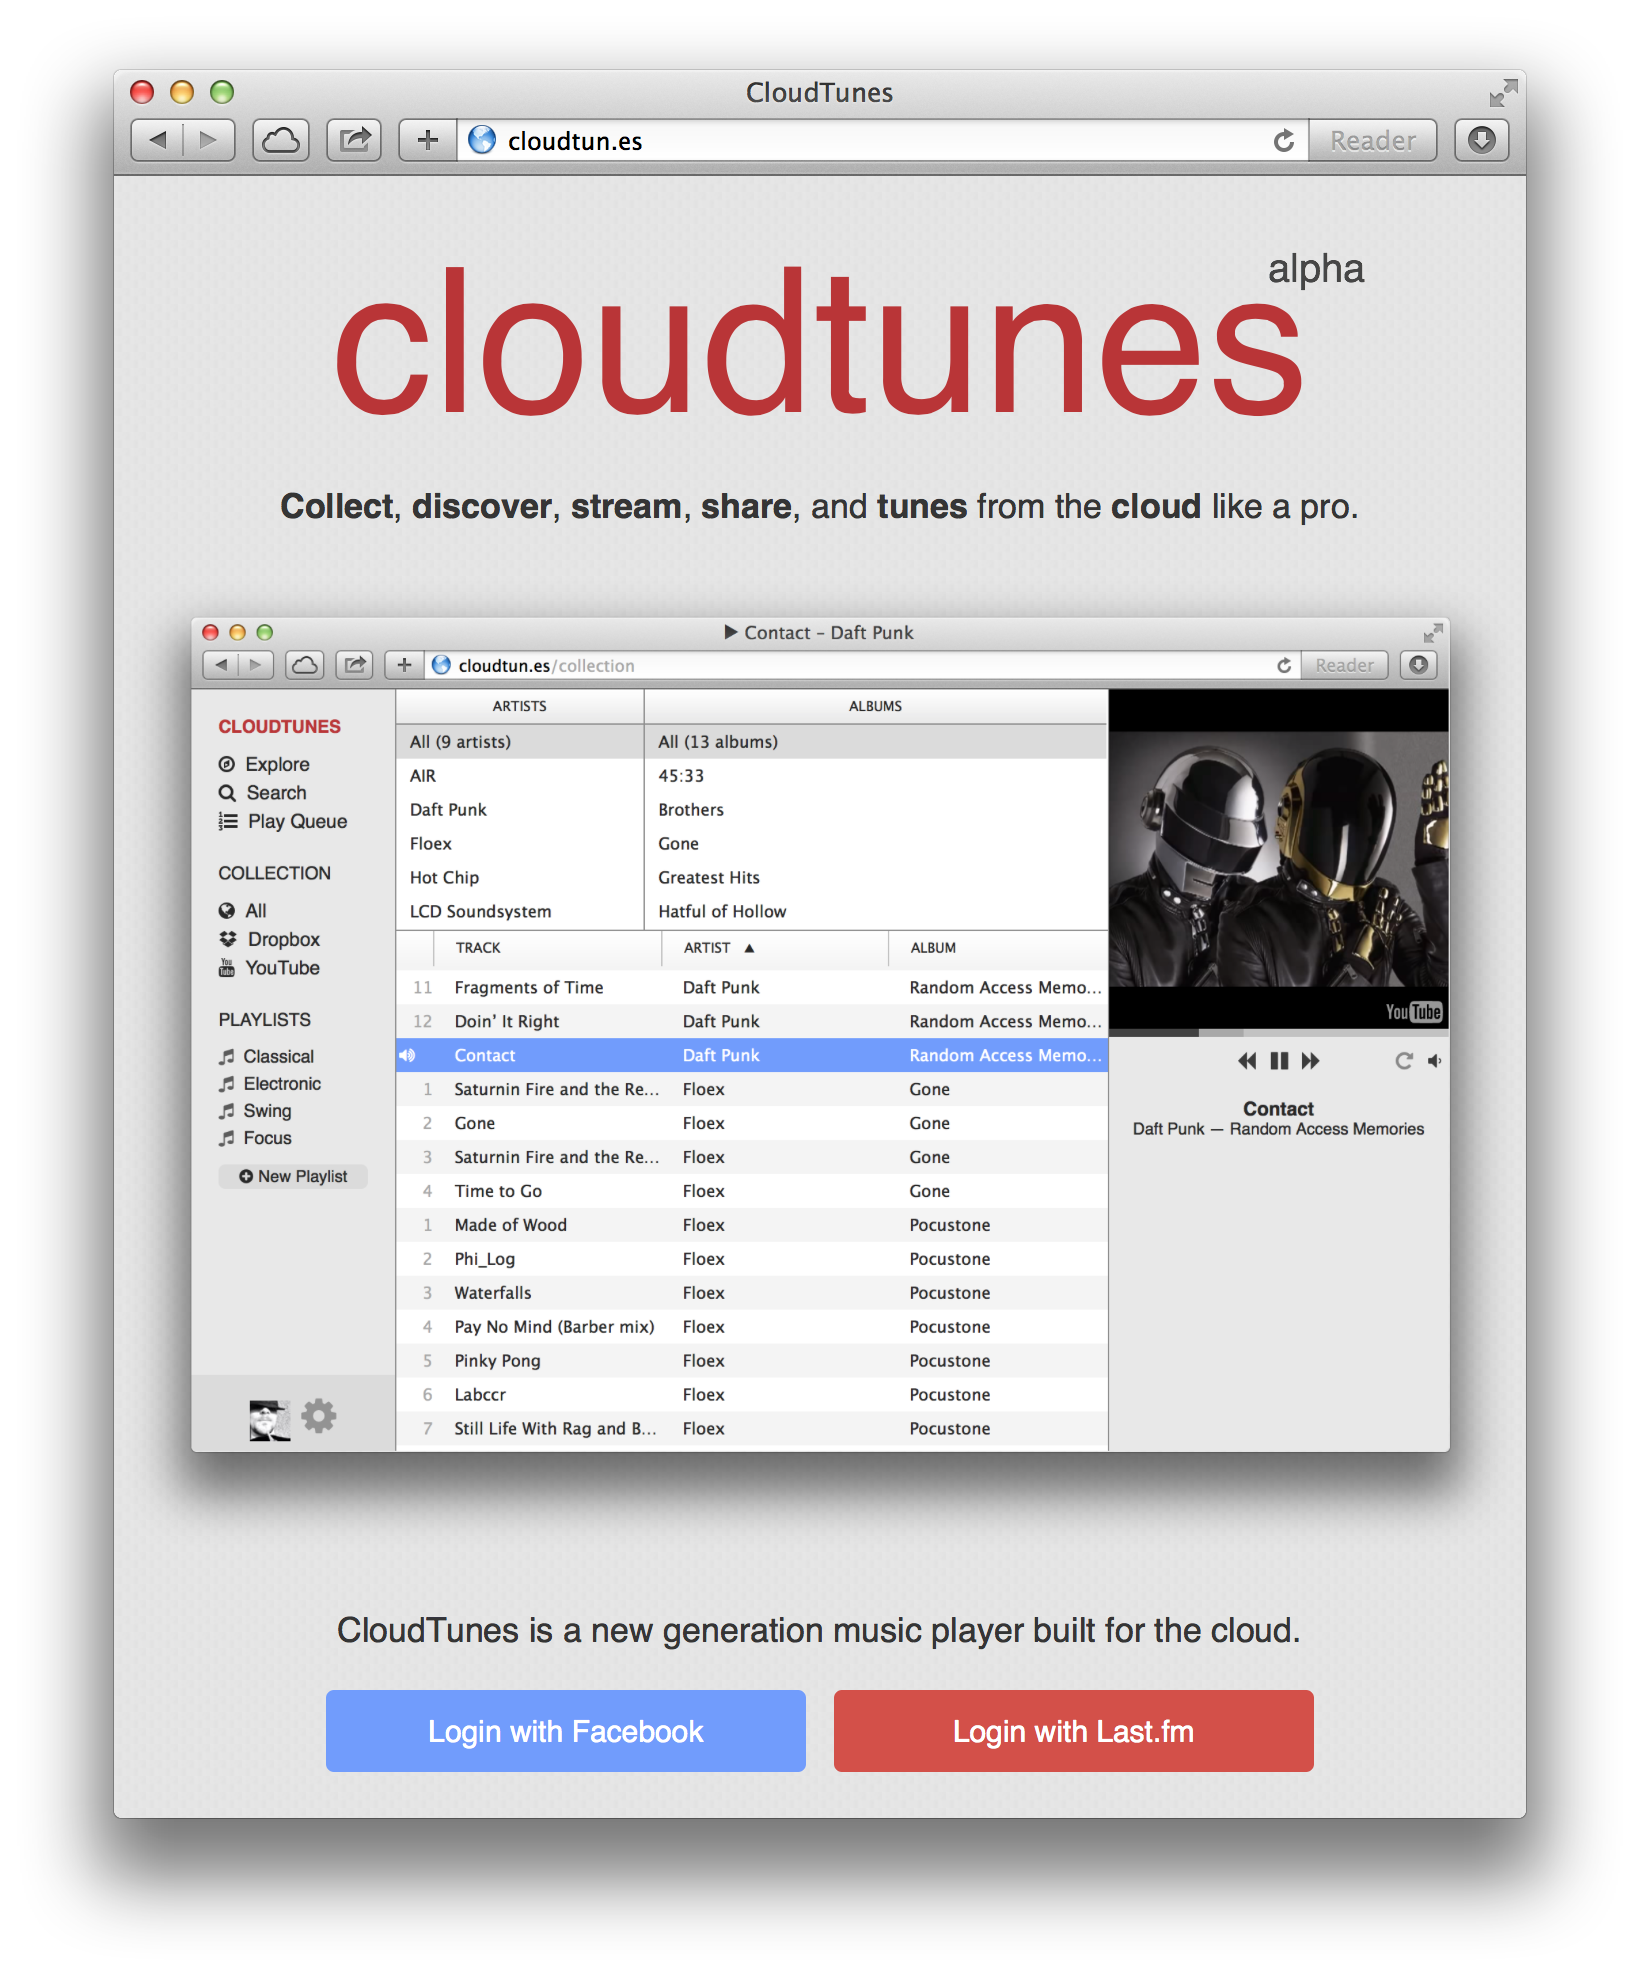
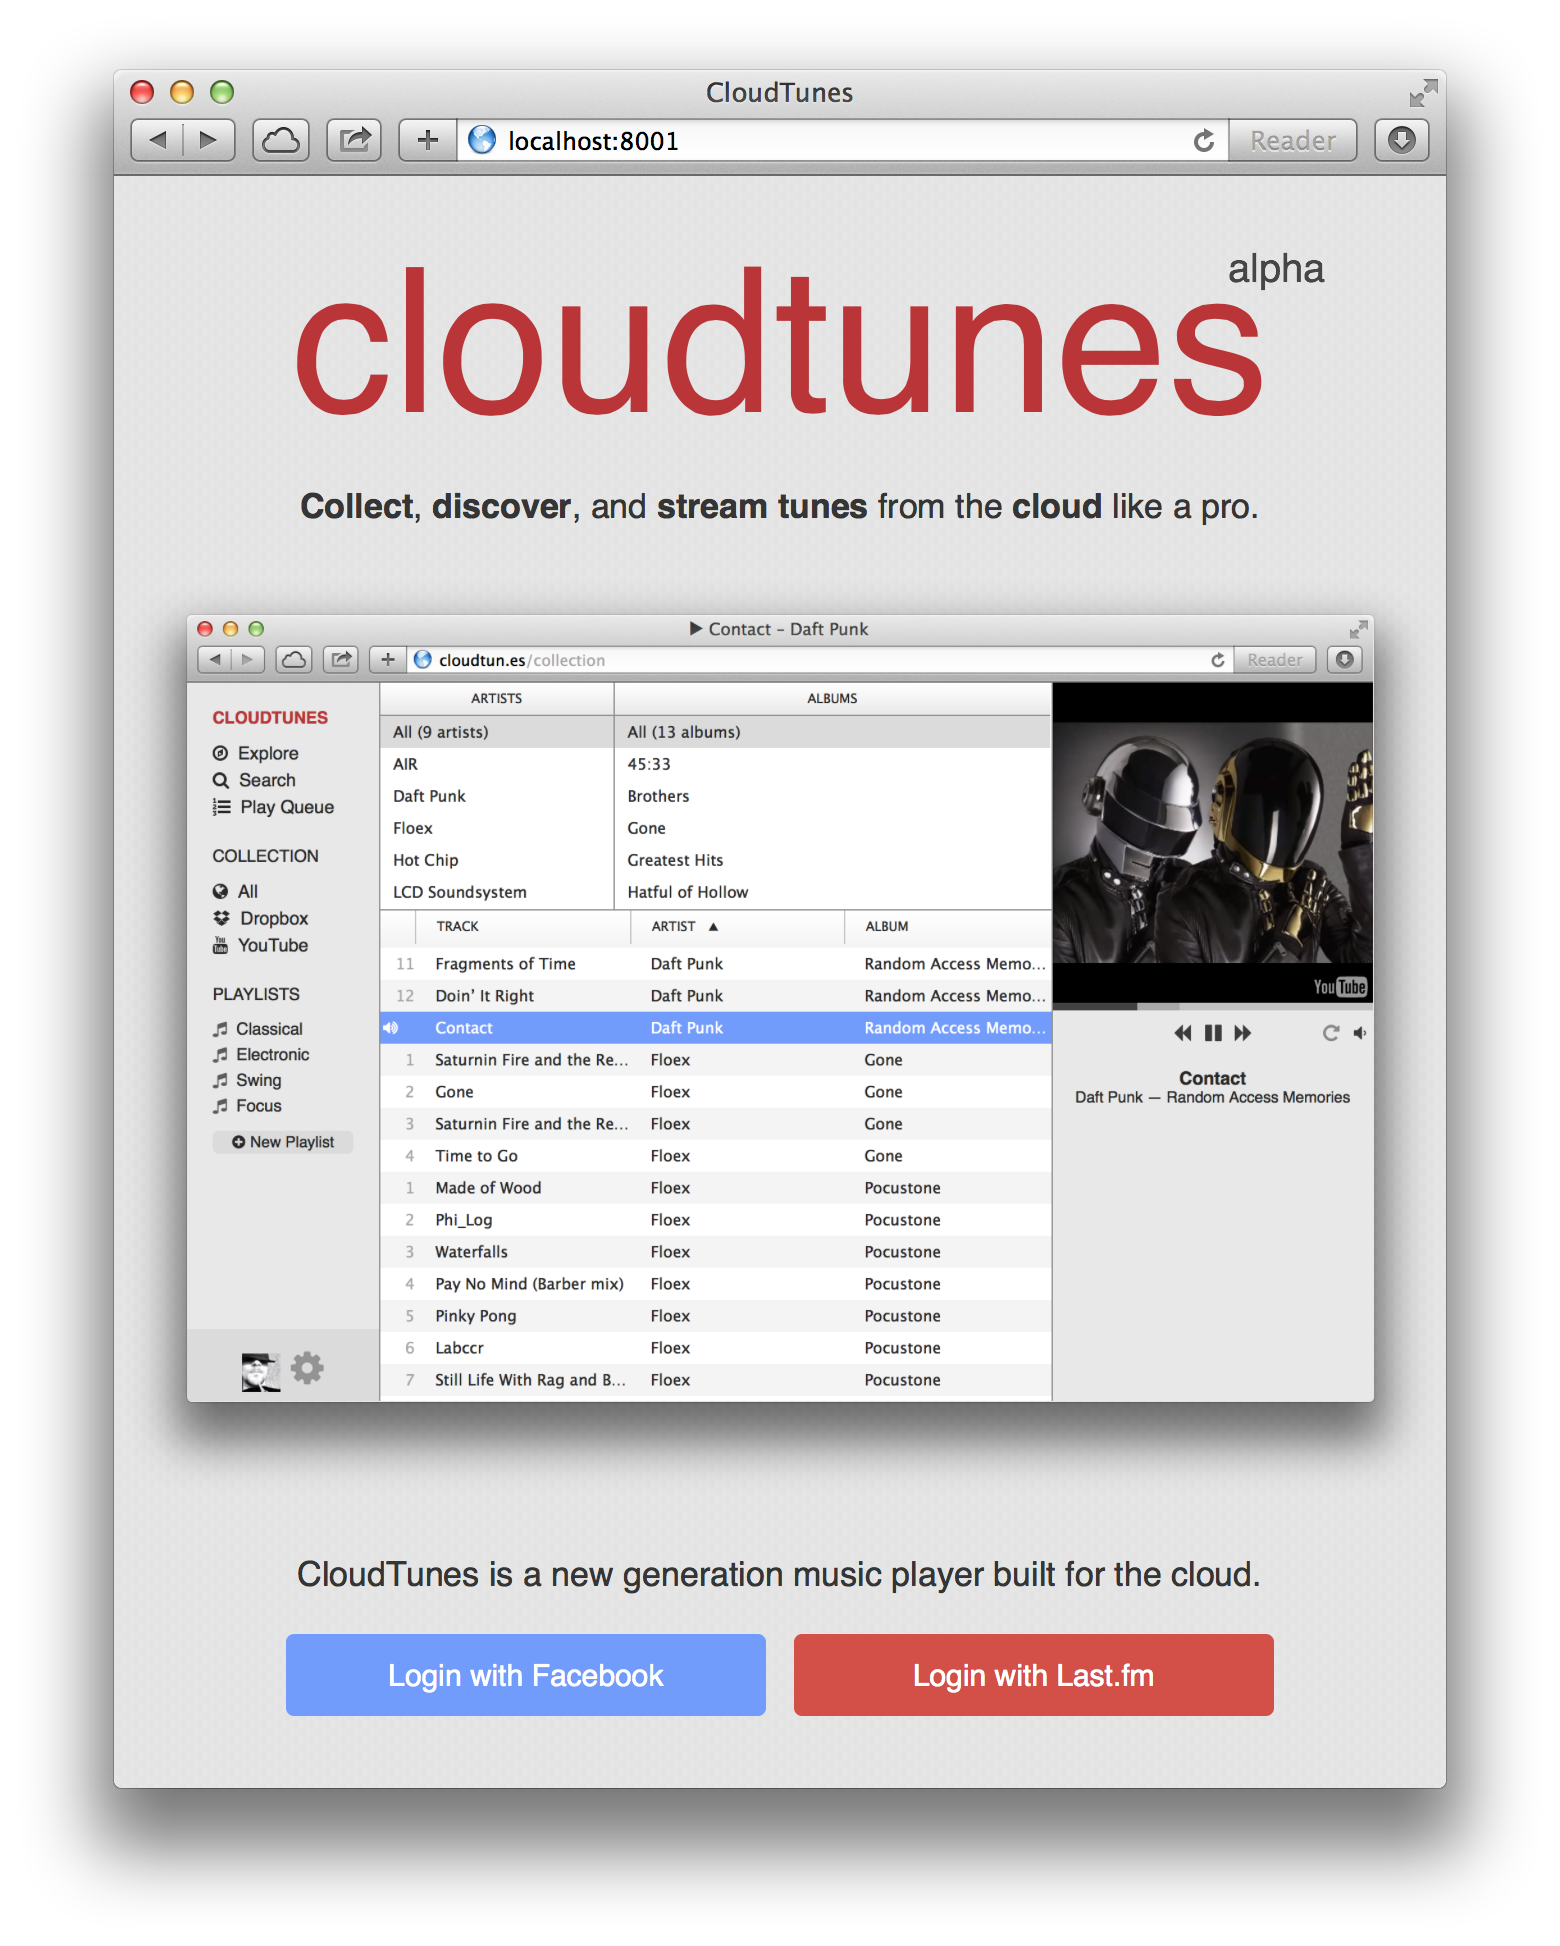
Fixed copy.

diff --git a/cloudtunes-server/homepage/index.html b/cloudtunes-server/homepage/index.html
@@ -125,8 +125,7 @@ footer span.heart {
     <h1>CloudTunes</h1>
 
     <p class="tagline">
-        <span>Collect</span>, <span>discover</span>, <span>stream</span>,
-        <span>share</span>, and
+        <span>Collect</span>, <span>discover</span>, and <span>stream</span>
         <span>tunes</span> from the <span>cloud</span> like a pro.
     </p>
 
